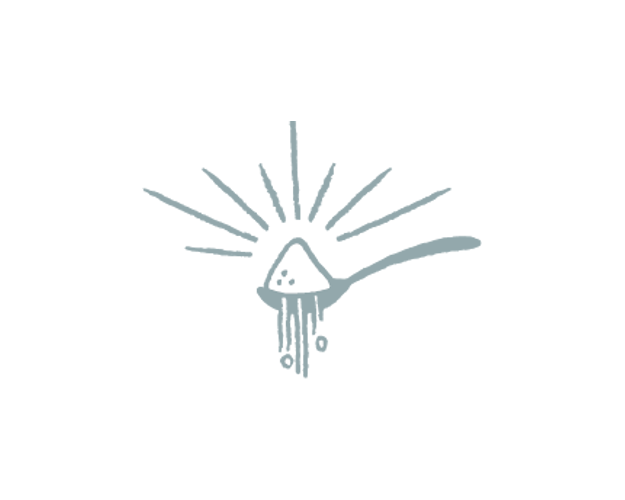
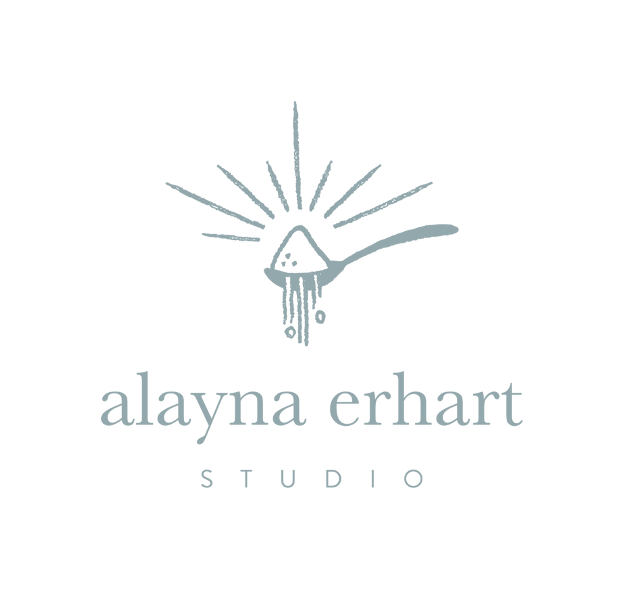
Rebrand

diff --git a/about.html b/about.html
@@ -3,17 +3,17 @@
   <head>
     <meta charset="UTF-8">
     <title>Sugar Dream Studio</title>
-    <meta property="og:url"                content="http://sugardream.studio/about" />
+    <meta property="og:url"                content="http://alaynaerhart.com/about" />
     <meta property="og:title"              content="Video Storytelling for the Bold, Brave & Tender" />
-    <meta property="og:image"              content="http://sugardream.studio/img/sds_ob.jpg" />
-    <link rel="stylesheet" type="text/css" href="./css/new.css?v=1.3">
+    <meta property="og:image"              content="http://alaynaerhart.com/img/sds_ob.jpg" />
+    <link rel="stylesheet" type="text/css" href="./css/new.css?v=1.5">
   </head>
   <body>
   <div class="content-box subpage">
     <div class="content-header subpage">
             <a class='selected' href="./about">about</a>
             <a href="./videos">videos</a>
-            <img onclick="location.href='/'" src="./img/SDS_Spoon_93A8AC.png" />
+            <img onclick="location.href='/'" src="./img/AES Spoon Logo 93a8ac.png" />
             <a href="./reviews">reviews</a>
             <a href="./contact">contact</a>
         </div>
@@ -28,7 +28,7 @@
         <div>
           <p>I believe in video storytelling for the bold, brave, and tender. For those who celebrate real intimacy, honest connection, and loving intentions. 
           </p>
-          <p>In planning my own wedding, I was challenged to find a videographer that fit my vision. I wanted something emotive, relaxed, and musical. Something that illuminated the personality of my relationship in a fresh way. So, with courage and conviction, I started Sugar Dream Studio.</p>
+          <p>In planning my own wedding, I was challenged to find a videographer that fit my vision. I wanted something emotive, relaxed, and musical. Something that illuminated the personality of my relationship with freshness and authenticity.</p>
         </div>
         <div>
           <p>My clients care less about bells, whistles, and drones, and more about stripping it down to the endearing, human core. To the little moments in between. </p>
@@ -52,7 +52,7 @@
             <a target="_blank" href="https://www.instagram.com/alaynaerhart/"> <img src='./img/insta_8ba5ab.png' /></a>
             <a target="_blank" href="https://vimeo.com/alaynaerhart"> <img src='./img/vimeo_8ba5ab.png' /></a>
             <br>
-            <a style="font-size:0.80em"; href="mailto:hello@sugardream.studio">hello@sugardream.studio</a>
+            <a style="font-size:0.80em"; href="mailto:hello@alaynaerhart.com">hello@alaynaerhart.com</a>
 
     </div>
   </div>    

diff --git a/contact.html b/contact.html
@@ -3,10 +3,10 @@
   <head>
     <meta charset="UTF-8">
     <title>Sugar Dream Studio</title>
-    <meta property="og:url"                content="http://sugardream.studio/contact" />
+    <meta property="og:url"                content="http://alaynaerhart.com/contact" />
     <meta property="og:title"              content="Video Storytelling for the Bold, Brave & Tender" />
-    <meta property="og:image"              content="http://sugardream.studio/img/sds_ob.jpg" />
-    <link rel="stylesheet" type="text/css" href="./css/new.css?v=1.3">
+    <meta property="og:image"              content="http://alaynaerhart.com/img/sds_ob.jpg" />
+    <link rel="stylesheet" type="text/css" href="./css/new.css?v=1.5">
     <script type="text/javascript" src="./js/main.js?v=1.7"></script>
     <style type="text/css">
       body{
@@ -19,7 +19,7 @@
     <div class="content-header subpage">
             <a href="./about">about</a>
             <a href="./videos">videos</a>
-            <img onclick="location.href='/'" src="./img/SDS_Spoon_93A8AC.png" />
+            <img onclick="location.href='/'" src="./img/AES Spoon Logo 93a8ac.png" />
             <a  href="./reviews">reviews</a>
             <a class='selected' href="./contact">contact</a>
         </div>
@@ -40,6 +40,8 @@
                 <div class="input-wrap"><input type="text" id="name" /></div>
                 <label for="contact">email address</label>
                 <div class="input-wrap"><input type="text" id="contact" /></div> 
+                <label for="phone">phone number</label>
+                <div class="input-wrap"><input type="number" id="phone" /></div> 
                 <label for="do-for-you">what can sugar dream studio capture for you?</label>
                 <div class="input-wrap"><input type="text" id="do-for-you" /></div>
                 <div style="width:25%" class="formHolder">
@@ -71,7 +73,7 @@
             <a target="_blank" href="https://www.instagram.com/alaynaerhart/"> <img src='./img/insta_8ba5ab.png' /></a>
             <a target="_blank" href="https://vimeo.com/alaynaerhart"> <img src='./img/vimeo_8ba5ab.png' /></a>
             <br>
-            <a style="font-size:0.80em"; href="mailto:hello@sugardream.studio">hello@sugardream.studio</a>
+            <a style="font-size:0.80em"; href="mailto:hello@alaynaerhart.com">hello@alaynaerhart.com</a>
 
     </div>
   </div>    

diff --git a/css/new.css b/css/new.css
@@ -59,10 +59,6 @@ a{
 .content-header.subpage a.selected{
     color:#1e535c;
 }
-.content-header.subpage img{
-    position:relative;
-    left:10px;
-}
 .content-header img{
     vertical-align: middle;
     height:200px;
@@ -80,6 +76,7 @@ a{
 
 }
 .content-main .main-img{
+    display:none;
     height:400px;
     right:10px;
     z-index:2;
@@ -88,25 +85,26 @@ a{
 }
 .content-main .subheader{
     text-align: center;
-    font-family: KDS;
-    font-size:2em;
+    font-family: Brandon-thin;
+    text-transform: uppercase;
+    font-size:1.5em;
+    font-weight: bold;
     color:#1e535c;
     margin-bottom:0.5em;
 }
 .content-main .subheader .line{
-    height:2px;border-radius: 5px;background-color:#e2b4bd; width: 80%;margin: auto;
+    height:2px;border-radius: 5px;background-color:#93a8ac; width: 80%;margin: auto;
     opacity: 0.75;
 }
 .content-main .subheader span{
     display: inline-block;
-    margin:0.5em 0px;
+    margin:0.65em 0px;
 }
-.content-main .subheader .line:first-child{
-    margin-bottom:5px;
-}
+
 .content-main .two-column{
     width:80%;
     margin:auto;
+    color:#1e535c;
 }
 .content-main .two-column>div{
     display:inline-block;
@@ -350,13 +348,6 @@ color:white;
         overflow: auto;   
         font-size:16px
     }
-    .content-main .main-img {
-        margin-top:2em;
-        height:300px
-    }
-    .content-header.subpage img{
-        height:150px;
-    }
     .content-main .image-mural{
         height:209px;
     }
@@ -387,6 +378,7 @@ color:white;
 }
 
 .content-main .main-img {
+    display:inline;
     margin-top:6em;
 }
     two-column{
@@ -459,6 +451,7 @@ iframe {
   and (-webkit-device-pixel-ratio: 3) {
   .content-main .main-img{
     margin-top:6em !important;
+    display:inline;
     }
 }
 
@@ -482,8 +475,9 @@ iframe {
     font-size: 1.75em;
   }
   .content-main .main-img{
-    height:50%;
-      margin-top:30%;
+    display:inline;
+    right:0px;
+    margin-top:30%;
   }
   .content-main .background-mask{
     height:calc(100% - 122px);

diff --git a/index.html b/index.html
@@ -5,11 +5,11 @@
     <meta charset="UTF-8">
     <title>Sugar Dream Studio</title>
 
-    <meta property="og:url"                content="http://sugardream.studio" />
+    <meta property="og:url"                content="http://alaynaerhart.com" />
     <meta property="og:title"              content="Video Storytelling for the Bold, Brave & Tender" />
-    <meta property="og:image"              content="http://sugardream.studio/img/sds_ob.jpg" />
+    <meta property="og:image"              content="http://alaynaerhart.com/img/sds_ob.jpg" />
 
-    <link rel="stylesheet" type="text/css" href="./css/new.css?v=1.4">
+    <link rel="stylesheet" type="text/css" href="./css/new.css?v=1.5">
     <style type="text/css">
         html, body{
             overflow:hidden !important;
@@ -27,7 +27,7 @@
         <div class="content-header">
             <a href="./about">about</a>
             <a href="./videos">videos</a>
-            <img onclick="location.href='/'" src="./img/SDS_Spoon_Logo_White.png" />
+            <img onclick="location.href='/'" src="./img/AES Spoon Logo White.png" />
             <a href="./reviews">reviews</a>
             <a href="./contact">contact</a>
         </div>
@@ -37,7 +37,7 @@
           <source src="./img/hero.mp4" type="video/mp4">
       </video>
             </div>
-            <img class="main-img" src="./img/logo_small.png" />
+            <img class="main-img" src="./img/AES Spoon Logo White.png" />
 
 
         </div>
@@ -45,7 +45,7 @@
             <a target="_blank" href="https://www.instagram.com/alaynaerhart/"> <img src='./img/insta_8ba5ab.png' /></a>
             <a target="_blank" href="https://vimeo.com/alaynaerhart"> <img src='./img/vimeo_8ba5ab.png' /></a>
             <br>
-            <a style="font-size:0.80em"; href="mailto:hello@sugardream.studio">hello@sugardream.studio</a>
+            <a style="font-size:0.80em"; href="mailto:hello@alaynaerhart.com">hello@alaynaerhart.com</a>
 
         </div>
     </div>

diff --git a/videos.html b/videos.html
@@ -4,10 +4,10 @@
 <head>
   <meta charset="UTF-8">
   <title>Sugar Dream Studio</title>
-  <meta property="og:url"                content="http://sugardream.studio/videos" />
+  <meta property="og:url"                content="http://alaynaerhart.com/videos" />
     <meta property="og:title"              content="Video Storytelling for the Bold, Brave & Tender" />
-    <meta property="og:image"              content="http://sugardream.studio/img/sds_ob.jpg" />
-  <link rel="stylesheet" type="text/css" href="./css/new.css?v=1.4">
+    <meta property="og:image"              content="http://alaynaerhart.com/img/sds_ob.jpg" />
+  <link rel="stylesheet" type="text/css" href="./css/new.css?v=1.5">
   <script type="text/javascript" src="./js/main.js?v=1.7"></script>
 </head>
 <body>
@@ -15,7 +15,7 @@
     <div class="content-header subpage">
             <a href="./about">about</a>
             <a class='selected' href="./videos">videos</a>
-            <img onclick="location.href='/'" src="./img/SDS_Spoon_93A8AC.png" />
+            <img onclick="location.href='/'" src="./img/AES Spoon Logo 93a8ac.png" />
             <a href="./reviews">reviews</a>
             <a href="./contact">contact</a>
         </div>
@@ -49,7 +49,7 @@
             <a target="_blank" href="https://www.instagram.com/alaynaerhart/"> <img src='./img/insta_8ba5ab.png' /></a>
             <a target="_blank" href="https://vimeo.com/alaynaerhart"> <img src='./img/vimeo_8ba5ab.png' /></a>
             <br>
-            <a style="font-size:0.80em"; href="mailto:hello@sugardream.studio">hello@sugardream.studio</a>
+            <a style="font-size:0.80em"; href="mailto:hello@alaynaerhart.com">hello@alaynaerhart.com</a>
 
     </div>
     <div class="modal" onclick="closeModal(event)" style="z-index:3">

diff --git a/reviews.html b/reviews.html
@@ -4,10 +4,10 @@
 <head>
   <meta charset="UTF-8">
   <title>Sugar Dream Studio</title>
-  <meta property="og:url"                content="http://sugardream.studio/reviews" />
+  <meta property="og:url"                content="http://alaynaerhart.com/reviews" />
     <meta property="og:title"              content="Video Storytelling for the Bold, Brave & Tender" />
-    <meta property="og:image"              content="http://sugardream.studio/img/sds_ob.jpg" />
-  <link rel="stylesheet" type="text/css" href="./css/new.css?v=1.3">
+    <meta property="og:image"              content="http://alaynaerhart.com/img/sds_ob.jpg" />
+  <link rel="stylesheet" type="text/css" href="./css/new.css?v=1.5">
   <script type="text/javascript" src="./js/main.js?v=1.7"></script>
 </head>
 <body>
@@ -15,7 +15,7 @@
     <div class="content-header subpage">
             <a href="./about">about</a>
             <a href="./videos">videos</a>
-            <img onclick="location.href='/'" src="./img/SDS_Spoon_93A8AC.png" />
+            <img onclick="location.href='/'" src="./img/AES Spoon Logo 93a8ac.png" />
             <a class='selected' href="./reviews">reviews</a>
             <a href="./contact">contact</a>
         </div>
@@ -59,7 +59,7 @@
             <a target="_blank" href="https://www.instagram.com/alaynaerhart/"> <img src='./img/insta_8ba5ab.png' /></a>
             <a target="_blank" href="https://vimeo.com/alaynaerhart"> <img src='./img/vimeo_8ba5ab.png' /></a>
             <br>
-            <a style="font-size:0.80em"; href="mailto:hello@sugardream.studio">hello@sugardream.studio</a>
+            <a style="font-size:0.80em"; href="mailto:hello@alaynaerhart.com">hello@alaynaerhart.com</a>
 
     </div>
   </div>
